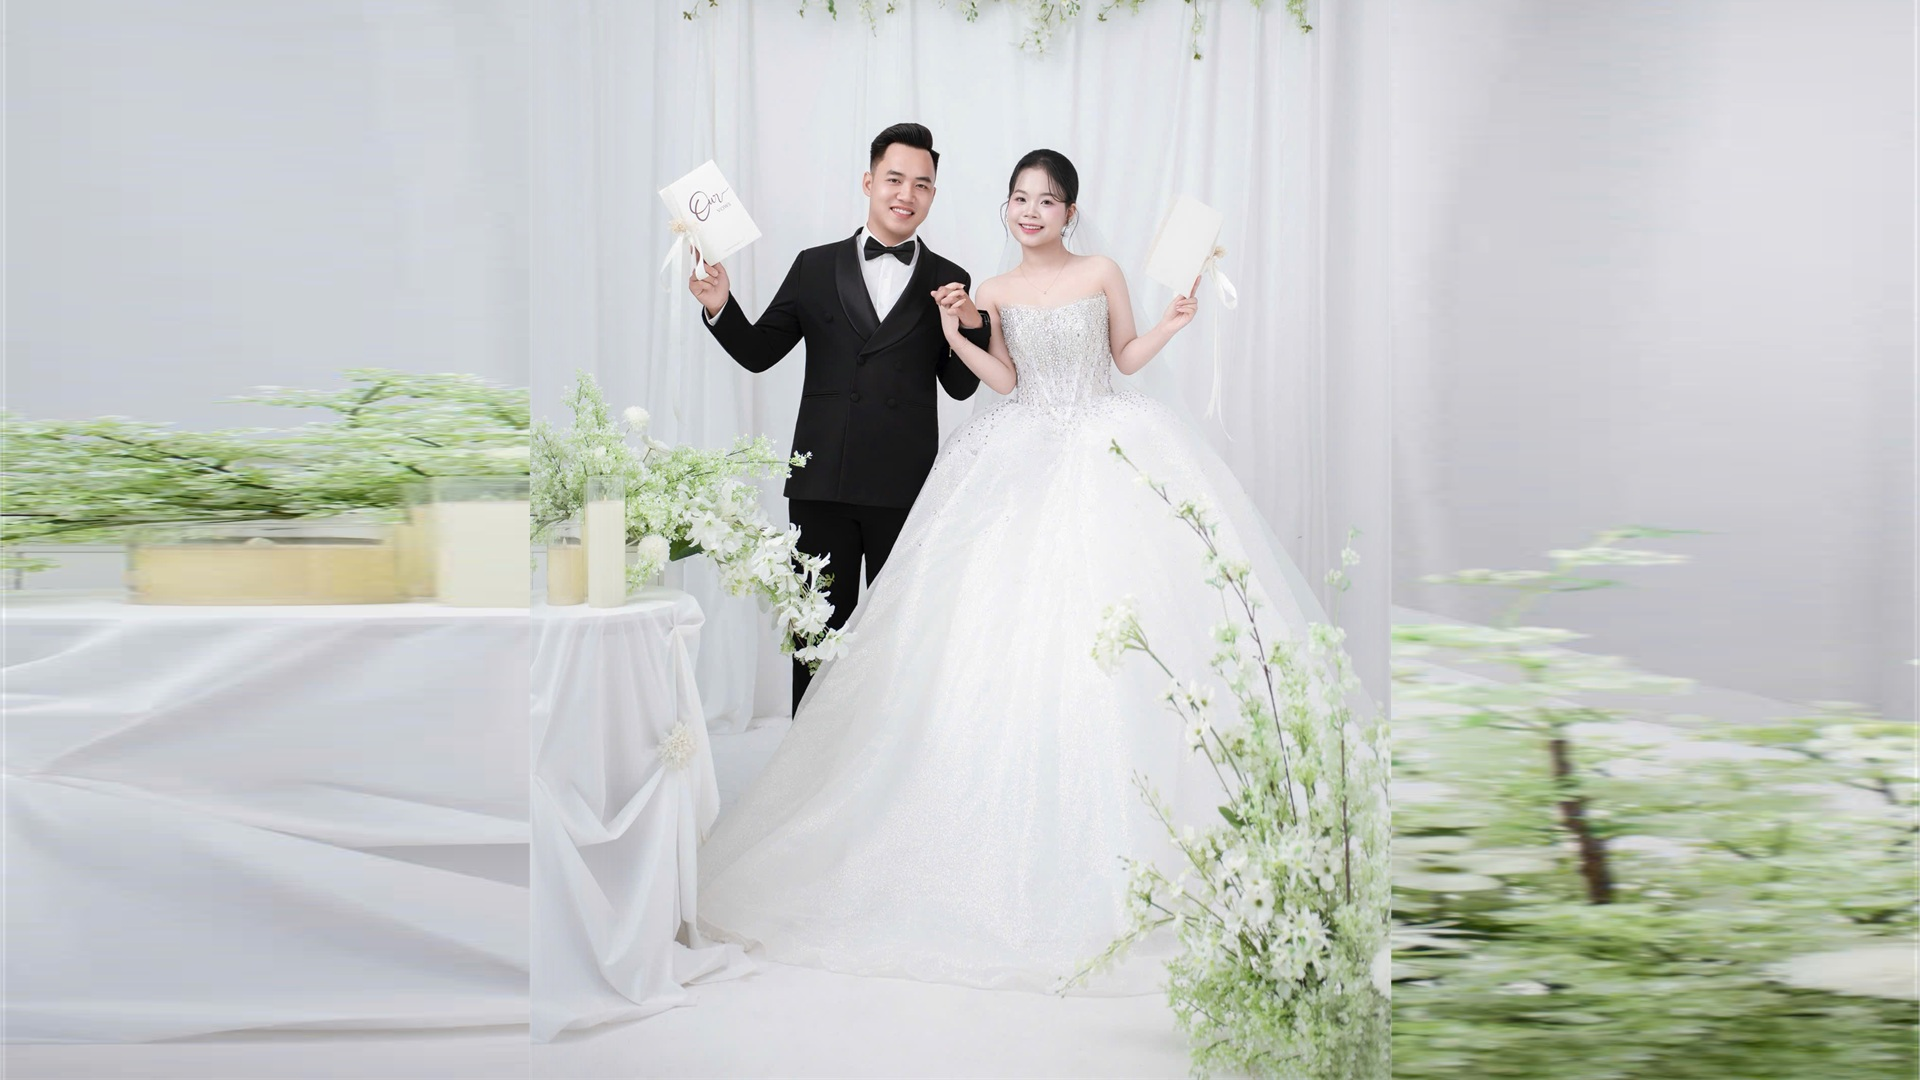
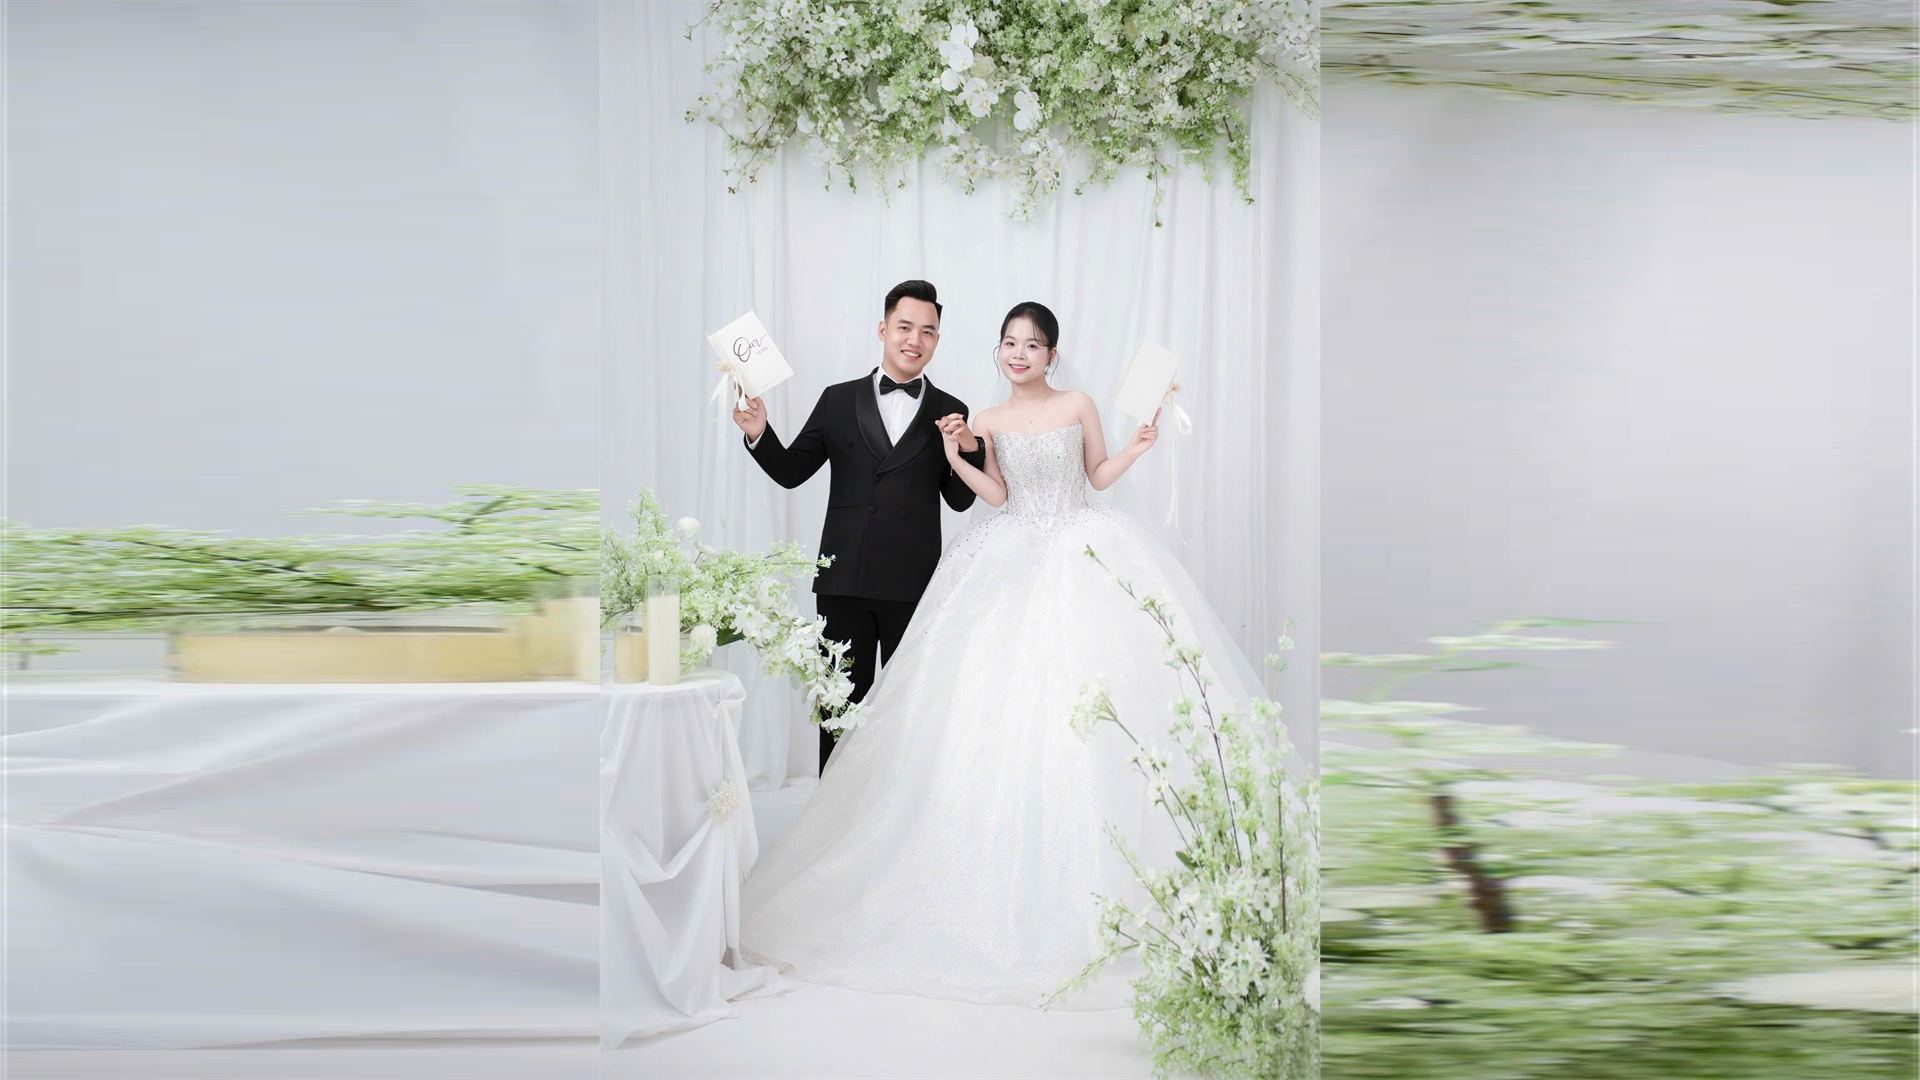
fix: chuyen toan bo cum chu thiep moi xuong duoi vay cuoi, khong che mat co dau chu re

diff --git a/index.html b/index.html
@@ -233,8 +233,8 @@
     .hero-image {
       min-height: 100vh;
       background:
-        linear-gradient(180deg, rgba(20, 16, 14, .25) 0%, rgba(20, 16, 14, .05) 30%, rgba(20, 16, 14, .3) 65%, rgba(20, 16, 14, .75) 100%),
-        url("./image/hero-wide.jpg?v=3") center top / cover no-repeat,
+        linear-gradient(180deg, rgba(20, 16, 14, .18) 0%, rgba(20, 16, 14, 0) 30%, rgba(20, 16, 14, .25) 65%, rgba(20, 16, 14, .7) 100%),
+        url("./image/hero-wide.jpg?v=4") center top / cover no-repeat,
         #75695c;
     }
     .hero-script {
@@ -242,7 +242,7 @@
       display: inline-block;
       overflow: hidden;
       font-family: "Dancing Script", cursive;
-      font-size: clamp(2.2rem, 5.5vw, 3.6rem);
+      font-size: clamp(2.2rem, 5.5vw, 3.5rem);
       font-weight: 700;
       line-height: 1.05;
       text-shadow: 0 2px 14px rgba(0,0,0,.6);
@@ -654,33 +654,37 @@
   </button>
 
   <main>
-    <section class="hero-image relative flex min-h-screen flex-col justify-between px-5 pt-10 pb-6 md:pt-14 md:pb-8 text-center text-white">
-      <div class="absolute inset-4 border border-white/30 md:inset-8 z-10 pointer-events-none"></div>
+    <section class="hero-image relative flex min-h-screen flex-col justify-end px-4 pb-8 md:pb-12 text-center text-white">
+      <div class="absolute inset-4 border border-white/25 md:inset-8 z-10 pointer-events-none"></div>
 
-      <!-- Phần trên đỉnh: Trân trọng kính mời & Tên khách -->
-      <div class="relative z-10 mx-auto w-full max-w-3xl pt-2">
-        <p class="eyebrow text-white/90">Trân trọng kính mời</p>
-        <p id="guest-name" class="mt-2 font-script text-3xl text-[#e2c58d] md:text-4xl">Quý Khách và Gia Đình</p>
-      </div>
+      <!-- Khối thiệp chuyển hoàn toàn xuống phía dưới váy cưới, giải phóng 100% gương mặt cô dâu chú rể -->
+      <div class="relative z-10 mx-auto w-full max-w-2xl px-5 py-5 sm:px-8 sm:py-6 rounded-2xl bg-black/40 backdrop-blur-md border border-white/20 shadow-2xl">
+        <!-- Dòng kính mời & Tên khách mời -->
+        <p class="eyebrow text-white/90 tracking-[.25em] text-[10px] sm:text-xs">TRÂN TRỌNG KÍNH MỜI</p>
+        <p id="guest-name" class="mt-1 font-script text-2xl sm:text-3xl text-[#f5deb3]">Quý Khách và Gia Đình</p>
+        
+        <div class="my-2.5 mx-auto h-px w-16 bg-white/30"></div>
 
-      <!-- Phần khoảng giữa: Để trống hoàn toàn khoe trọn gương mặt, nụ cười và thần thái cô dâu chú rể -->
-      <div class="flex-1 min-h-[160px] md:min-h-[260px]"></div>
-
-      <!-- Phần chân ảnh: Tên cô dâu chú rể hạ thấp xuống phần váy/hoa, tuyệt đối không chạm mặt -->
-      <div class="relative z-10 mx-auto w-full max-w-3xl pb-2">
-        <div class="flex flex-col items-center justify-center gap-1 md:flex-row md:gap-5">
+        <!-- Tên Chú rể & Cô dâu -->
+        <div class="flex items-center justify-center gap-2 sm:gap-4">
           <h1 class="hero-script shimmer-text" data-shimmer="Nguyễn Văn" aria-label="Nguyễn Văn">Nguyễn Văn</h1>
-          <span class="my-0 text-xl text-[#e2c58d]">♥</span>
+          <span class="text-lg sm:text-xl text-[#f5deb3]">♥</span>
           <h2 class="hero-script shimmer-text" data-shimmer="Ngọc Anh" aria-label="Ngọc Anh">Ngọc Anh</h2>
         </div>
+
+        <!-- Ngày cưới -->
         <p class="mt-2 text-xs font-light tracking-[.25em] text-white/90 uppercase">Chủ Nhật · 29 Tháng 11 · 2026</p>
         
-        <div class="mx-auto mt-4 w-fit border-y border-white/30 py-2.5 px-6 bg-black/25 backdrop-blur-sm rounded-sm">
-          <p class="mb-1.5 text-[8px] tracking-[.3em] text-white/75 uppercase">Chỉ còn</p>
-          <div id="countdown" class="flex items-center gap-4 sm:gap-7" aria-label="Đếm ngược đến lễ cưới"></div>
+        <!-- Đồng hồ đếm ngược -->
+        <div class="mx-auto mt-3 w-fit border-y border-white/25 py-2 px-4 sm:px-6">
+          <p class="mb-1 text-[8px] tracking-[.3em] text-white/75 uppercase">Chỉ còn</p>
+          <div id="countdown" class="flex items-center gap-3 sm:gap-6" aria-label="Đếm ngược đến lễ cưới"></div>
         </div>
 
-        <a href="#loi-moi" class="mt-4 inline-flex items-center gap-2 text-xs font-medium tracking-[.15em] text-white/90 hover:text-white transition">KHÁM PHÁ THIỆP <span aria-hidden="true">↓</span></a>
+        <!-- Nút khám phá thiệp -->
+        <a href="#loi-moi" class="mt-3.5 inline-flex items-center gap-1.5 text-xs font-medium tracking-[.15em] text-white/90 hover:text-white transition">
+          KHÁM PHÁ THIỆP <span aria-hidden="true">↓</span>
+        </a>
       </div>
     </section>
 
